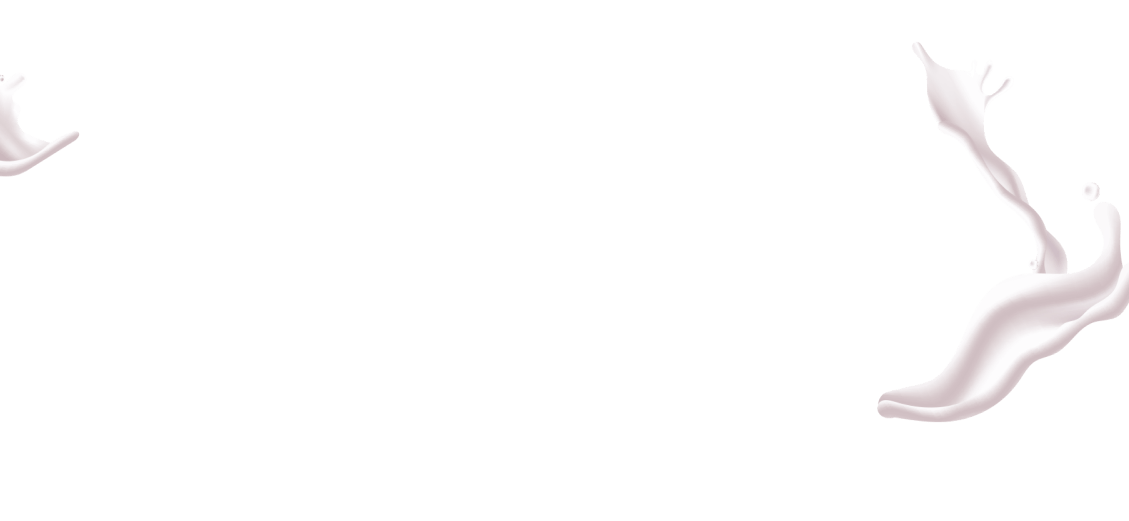
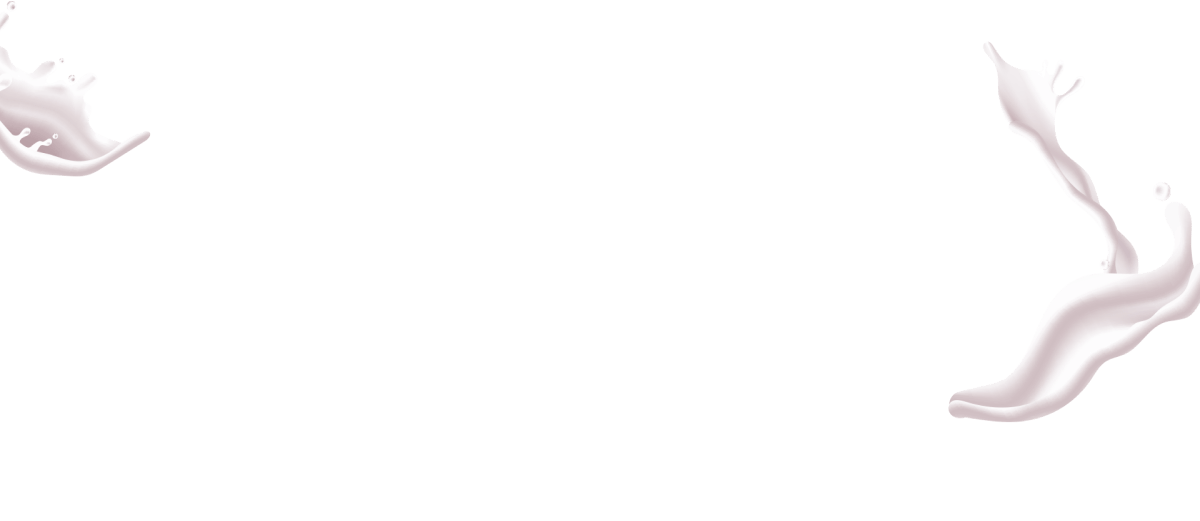
Finished section about
+++

diff --git a/src/sass/_about.scss b/src/sass/_about.scss
@@ -72,11 +72,10 @@
     min-width: 280px;
     background-image: url('../images/backround-milk-mob/sectionbg-mob@2x.png');
     background-repeat: no-repeat;
-    background-position: 0 395px;
+    background-position: 0 390px;
     background-size: contain;
 
     @media screen and (min-width: 768px) {
-      min-width: 768px;
       background-image: none;
       display: flex;
       justify-content: center;
@@ -102,7 +101,6 @@
       width: 366px;
       justify-content: left;
       padding: 0;
-      margin-right: 32px;
     }
 
     @media screen and (min-width: 1200px) {
@@ -113,7 +111,6 @@
 
   &__image-cow {
     max-width: 100%;
-    min-width: 280px;
     height: auto;
     display: block;
 
@@ -133,7 +130,7 @@
   }
 
   &__text {
-    width: 220px;
+    width: 230px;
     font-family: 'DM Sans';
     font-style: normal;
     text-align: left;
@@ -145,9 +142,9 @@
     color: $dark;
 
     @media screen and (min-width: 768px) {
-      width: 334px;
       font-size: 14px;
       line-height: 1.78;
+      width: 354px;
     }
 
     @media screen and (min-width: 1200px) {
@@ -156,11 +153,12 @@
       font-size: 16px;
       line-height: 1.75;
       margin-bottom: 32px;
+      // height: 79px;
     }
   }
 
   &__except {
-    width: 220px;
+    width: 230px;
     font-family: 'DM Sans';
     font-style: normal;
     text-align: left;
@@ -172,7 +170,7 @@
     color: $gray;
 
     @media screen and (min-width: 768px) {
-      width: 334px;
+      width: 340px;
       margin-bottom: 20px;
       font-size: 14px;
       line-height: 1.76;
@@ -180,7 +178,7 @@
     }
 
     @media screen and (min-width: 1200px) {
-      width: 463px;
+      width: 450px;
       margin-bottom: 30px;
       font-size: 14px;
       line-height: 1.93;
@@ -230,14 +228,15 @@
   justify-content: center;
   align-items: center;
   text-align: center;
-  padding-right: 37px;
-  padding-left: 37px;
+  padding-right: 35px;
+  padding-left: 35px;
 
   border-radius: 22px;
   background-color: $white;
   color: $red;
   cursor: pointer;
   border: none;
+  transition: background-color 250ms, color 250ms;
 
   @media screen and (min-width: 768px) {
     font-size: 16px;
@@ -245,8 +244,16 @@
   }
 
   &:hover,
-  &:focus {
+  &:focus-visible {
     background-color: #ecebeb;
+    transform-style: preserve-3d;
+    transform: rotate 250ms;
+  }
+  &:active {
+    background-color: $red;
+    color: $white;
+    transform: rotate 250ms;
+    transform-style: preserve-3d;
   }
 
   &__vektor-svg {
@@ -255,8 +262,16 @@
     font-weight: 700;
     font-size: 14px;
     line-height: 1.28;
+    margin-left: 14px;
     fill: $red;
-
+    &:hover,
+    &:focus {
+      fill: $white;
+      transform-style: preserve-3d;
+    }
+    &:active {
+      fill: $white;
+    }
     @media screen and (min-width: 768px) {
       font-size: 16px;
       line-height: 1.31;

diff --git a/src/partials/about.html b/src/partials/about.html
@@ -4,16 +4,20 @@
     <h2 class="about__heading">how it's made?</h2>
     <div class="about__image-text-box">
       <div class="about__picture-box">
-
-        <img class="about__image-cow" srcset="
+        <img
+          class="about__image-cow"
+          srcset="
             ./images/cow-desktop/milk-desktop@1x.png  501w,
             ./images/cow-desktop/milk-desktop@2x.png 1002w,
             ./images/cow-tablet/milk-tablet@1x.png    336w,
             ./images/cow-tablet/milk-tablet@2x.png    732w,
             ./images/cow-mobile/milk-mob@1x.png       280w,
             ./images/cow-mobile/milk-mob@2x.png       560w
-          " src="./images/cow-mobile/milk-mob@1x.png" alt="a jug of milk and a cow behind" />
-
+          "
+          sizes="280px"
+          src="./images/cow-mobile/milk-mob@1x.png"
+          alt="a jug of milk and a cow behind"
+        />
       </div>
 
       <div class="about__text-box">
@@ -32,14 +36,14 @@
           Aliquam erat volutpat. Aenean accumsan.
         </p>
 
-        <button class="button-more" type="button">
+        <button class="button-more popup.open" type="button">
           Read more
 
           <svg class="button-more__vektor-svg" width="9px" height="11px">
-            <use href="./images/symbol-defs.svg#icon-about-erol"></use>
+            <use href="./images/symbol-defs.svg#icon-arrowsmoll"></use>
           </svg>
-
         </button>
       </div>
     </div>
+  </div>
 </section>

diff --git a/src/index.html b/src/index.html
@@ -4,7 +4,10 @@
     <meta charset="UTF-8" />
     <meta name="viewport" content="width=device-width, initial-scale=1.0" />
     <title>IceCream</title>
-    <link href="https://fonts.googleapis.com/css2?family=DM+Sans:wght@400;500;700&family=Titan+One&display=swap" rel="stylesheet">
+    <link
+      href="https://fonts.googleapis.com/css2?family=DM+Sans:wght@400;500;700&family=Titan+One&display=swap"
+      rel="stylesheet"
+    />
     <link rel="stylesheet" href="./sass/index.scss" />
     <script type="module" src="./index.js"></script>
   </head>
